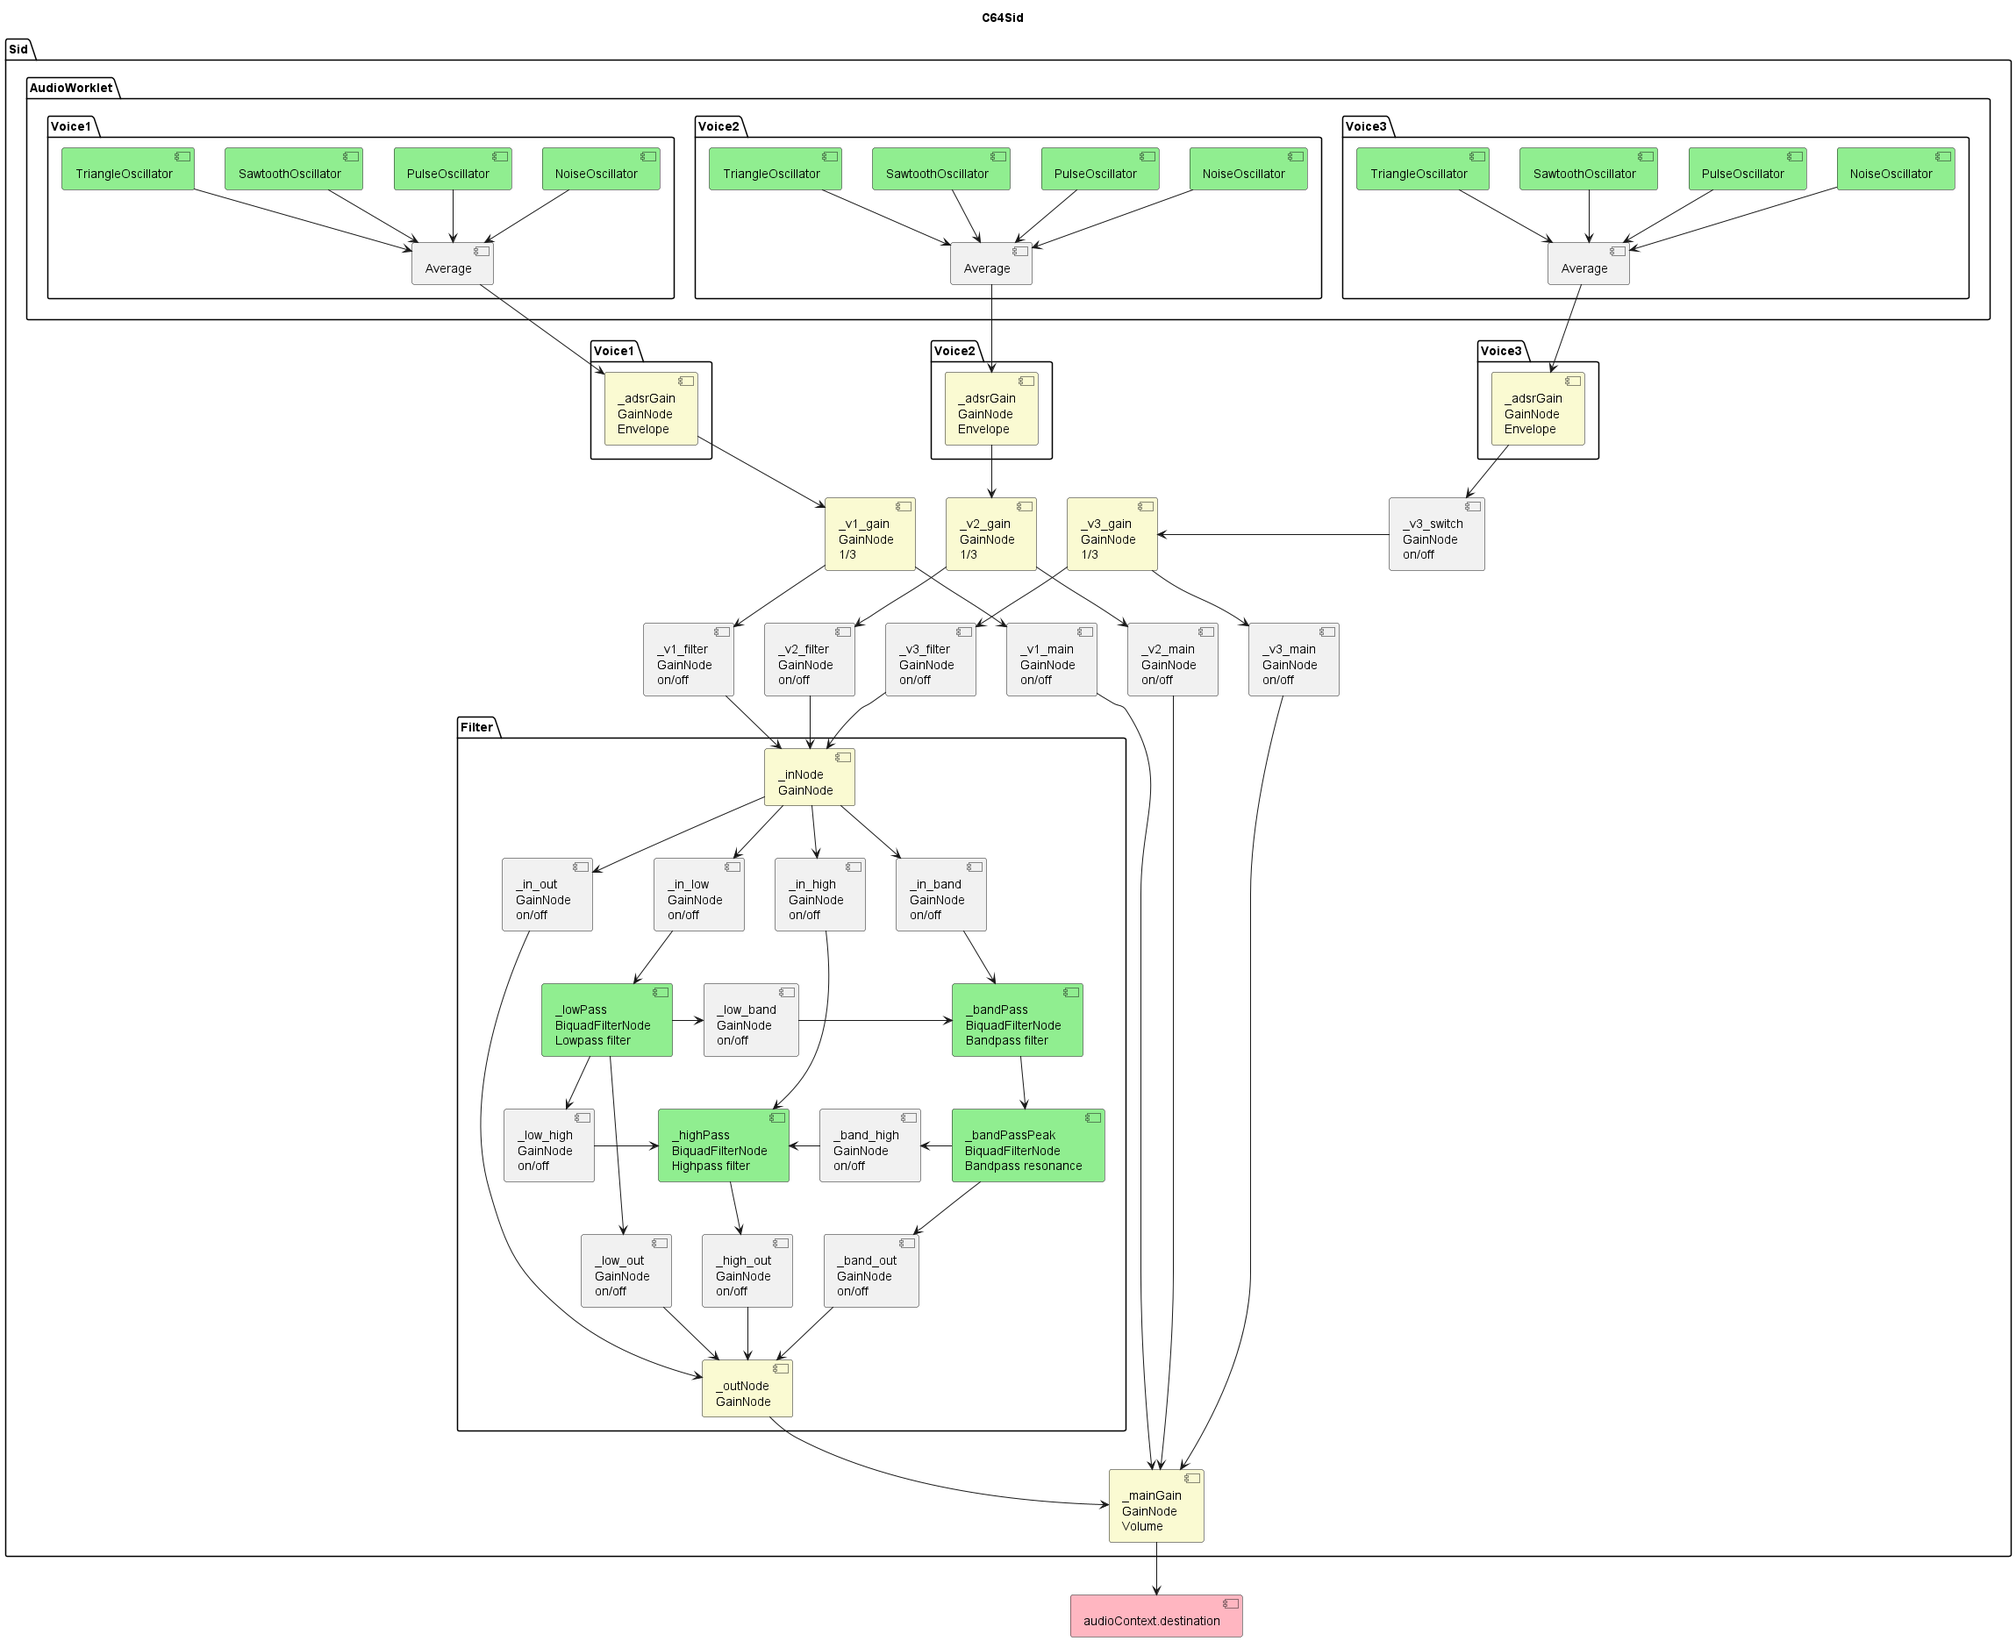
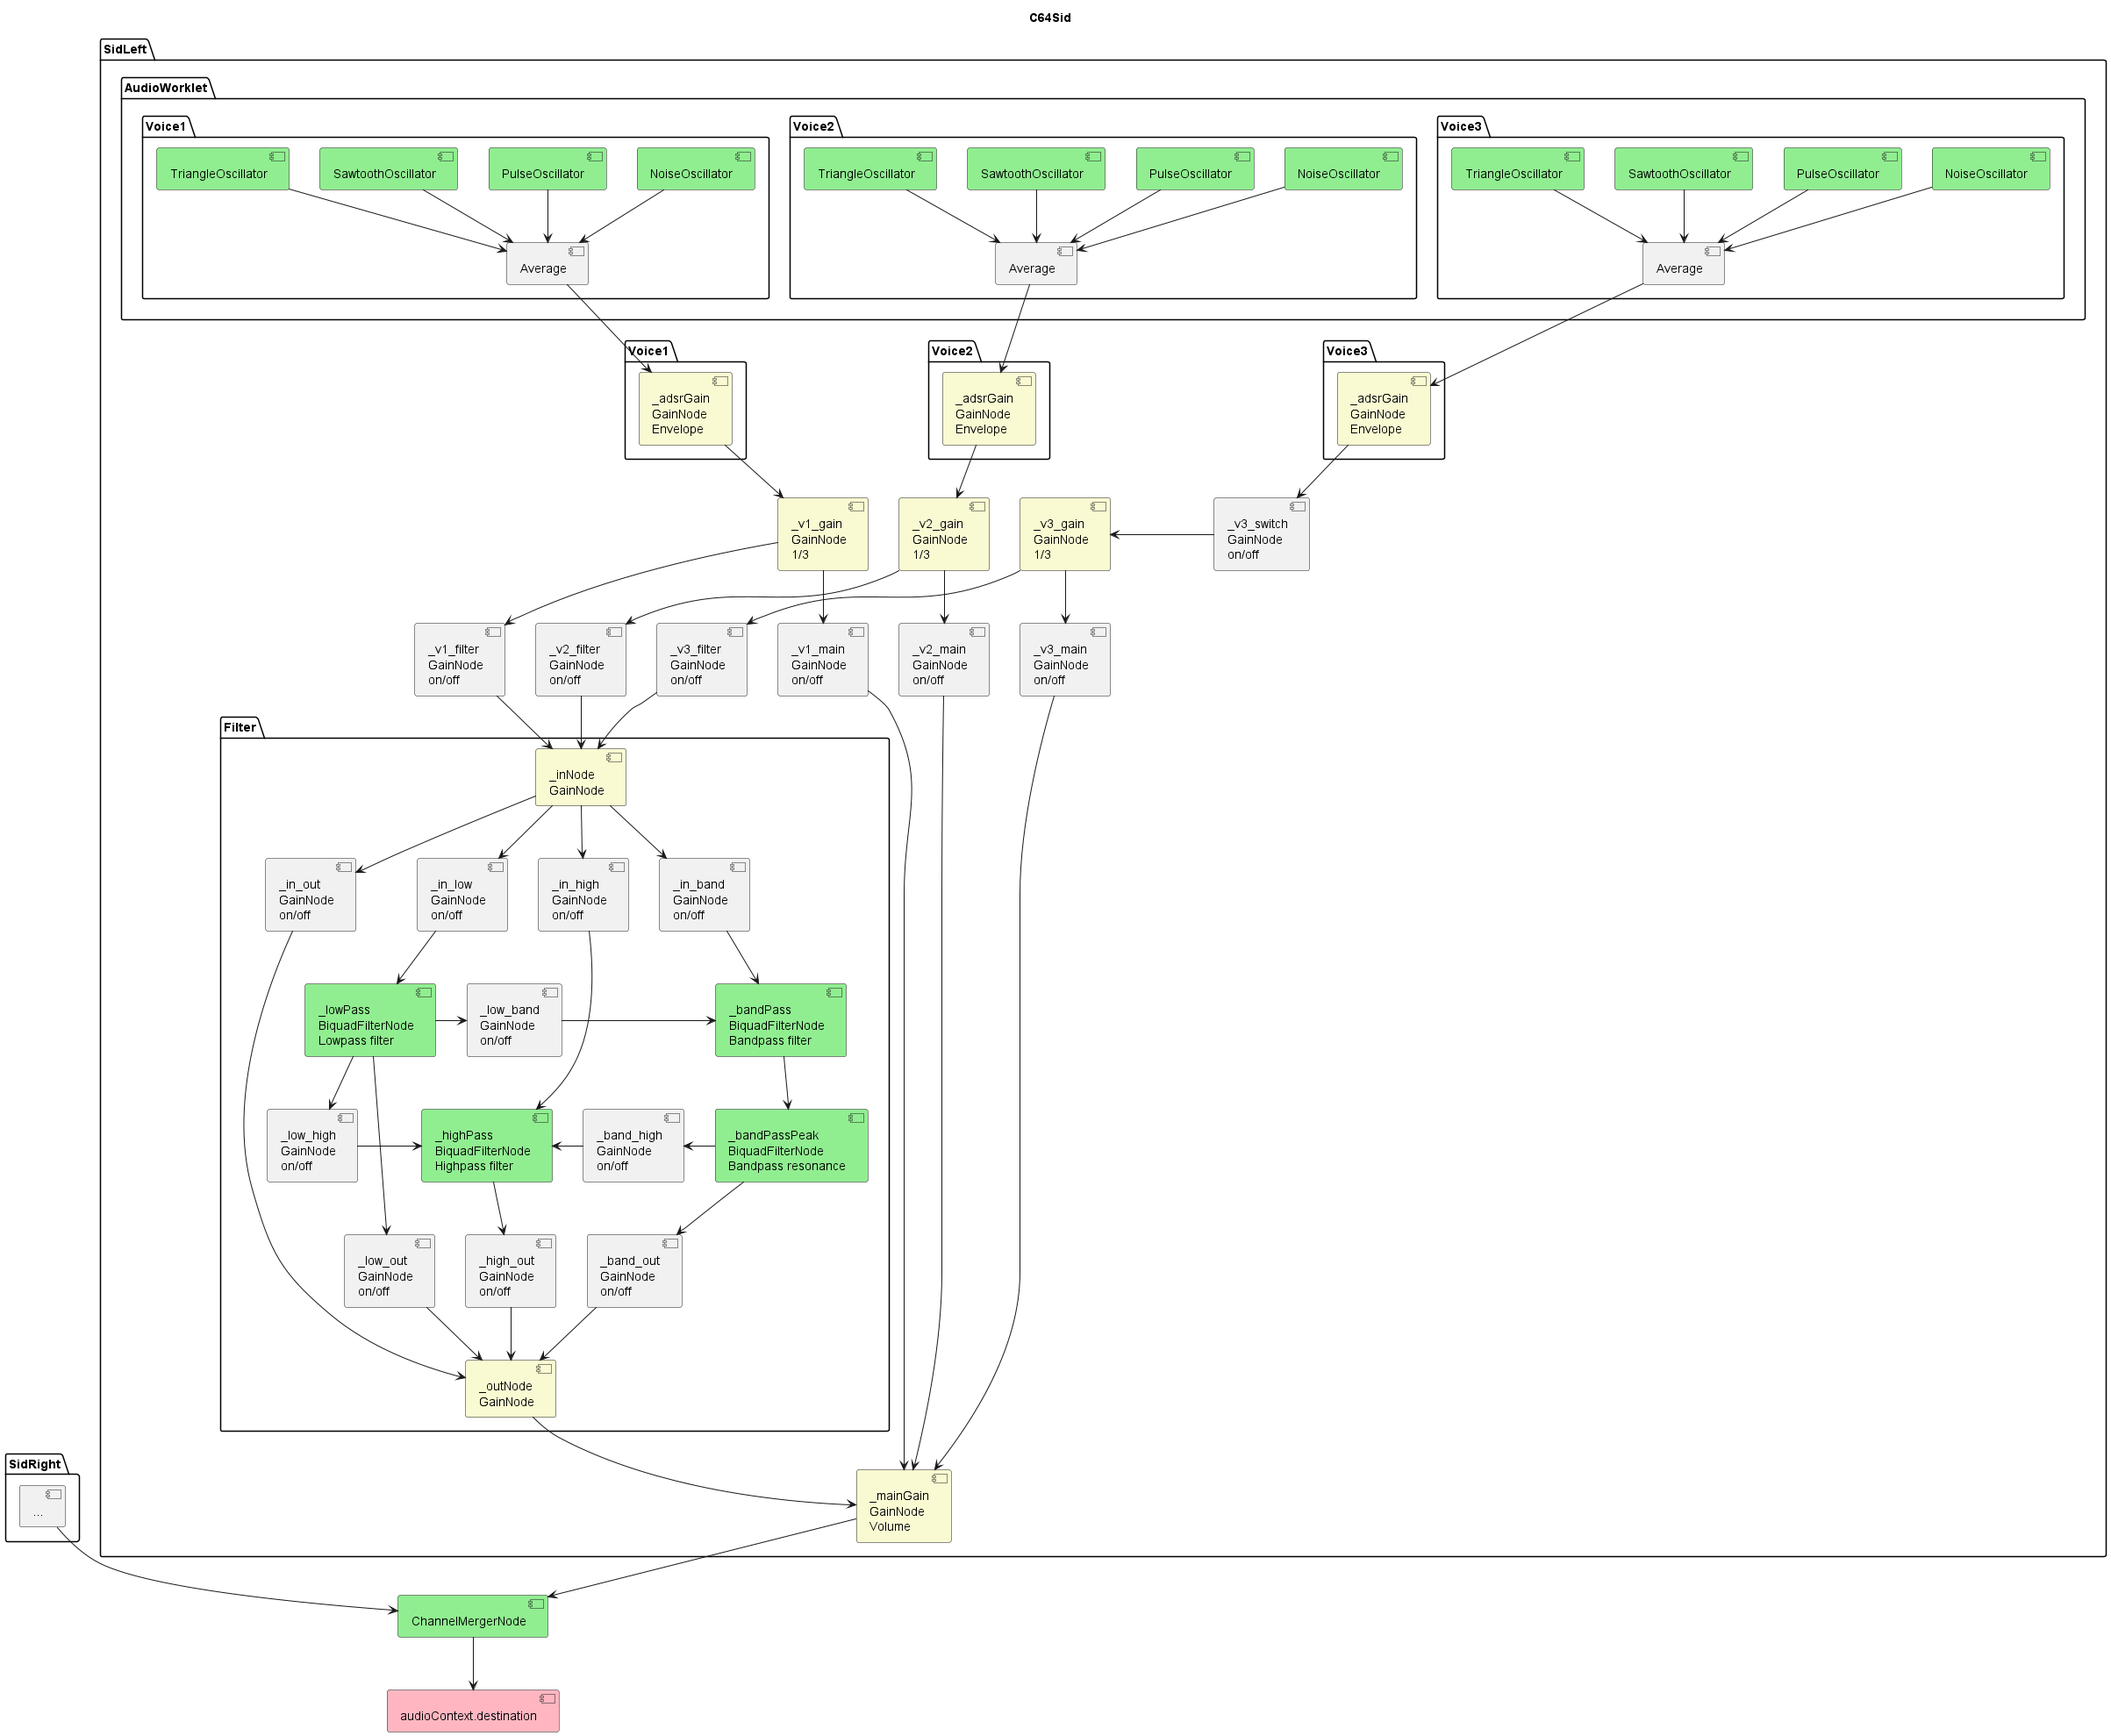
further fixes

diff --git a/src/C64SidProcessor.js b/src/C64SidProcessor.js
@@ -230,22 +230,6 @@ class C64SidProcessor extends AudioWorkletProcessor {
         if (voice1Sync) this.#voice1Phase = ((this.#voice3Phase - 1) / voice3PhasePerSample) * voice1PhasePerSample;
         this.#voice3Phase -= Math.floor(this.#voice3Phase);
       }
-
-      // TODO Waveforms kombinieren (AND mit 16/24/32 bit oder Mittelwert von aktiven)
-      // Kombination mit adsrGain multiplizieren
-      // -> voice1Values -> 1 Output-Kanal
-      // Zahl an Output Kanälen festlegen
-      // Außerhalb diesen Prozessor einbauen, Output Kanäle splitten und weiter verarbeiten
-      // 2 dieser Prozessoren für 2 Kanäle (links/rechts), einen standardmäßig verstecken -> dann mono auf beide Kanäle, sonst einer links einer rechts
-
-      // Farben für rechten Kanal ändern
-      // Farbbefehle im Infotext z.B. "\CGSC_v146\CGSC\Diz_Cop\Old_Man.mus"
-      // Clear-Button Fileselects leeren, clear Keys
-      // File, Control Bereiche trennen, Play Button nach rechts
-      // Spulen, Anzeige von Noten (auch beim Spulen) reparieren
-      // Beim Neu laden die Noten löschen, clear aufrufen?
-      // wie werde ich bei google gefunden
-      // system schaubild aktualisieren
     }
 
     return true;

diff --git a/src/SidPlayer.html b/src/SidPlayer.html
@@ -3,8 +3,12 @@
   <head>
     <meta charset="UTF-8" />
     <meta name="viewport" content="width=device-width, initial-scale=1.0" />
+    <meta name="description" content="C64 SID-Player - Play classic Commodore 64 SID music directly in your browser. Supports mono and stereo playback of .prg and .mus files." />
+    <meta name="keywords" content="C64, Commodore 64, SID, SID-Player, Web Audio Api, Browser Player" />
+    <meta name="author" content="stevi84" />
+    <meta name="robots" content="index, follow" />
     <link rel="icon" type="image/x-icon" href="favicon.ico" />
-    <title>SidPlayer</title>
+    <title>C64 SID-Player - Retro Chiptune Browser Player</title>
     <link rel="preconnect" href="https://fonts.googleapis.com">
     <link rel="preconnect" href="https://fonts.gstatic.com" crossorigin>
     <link href="https://fonts.googleapis.com/css2?family=Noto+Sans+Mono&display=swap" rel="stylesheet">
